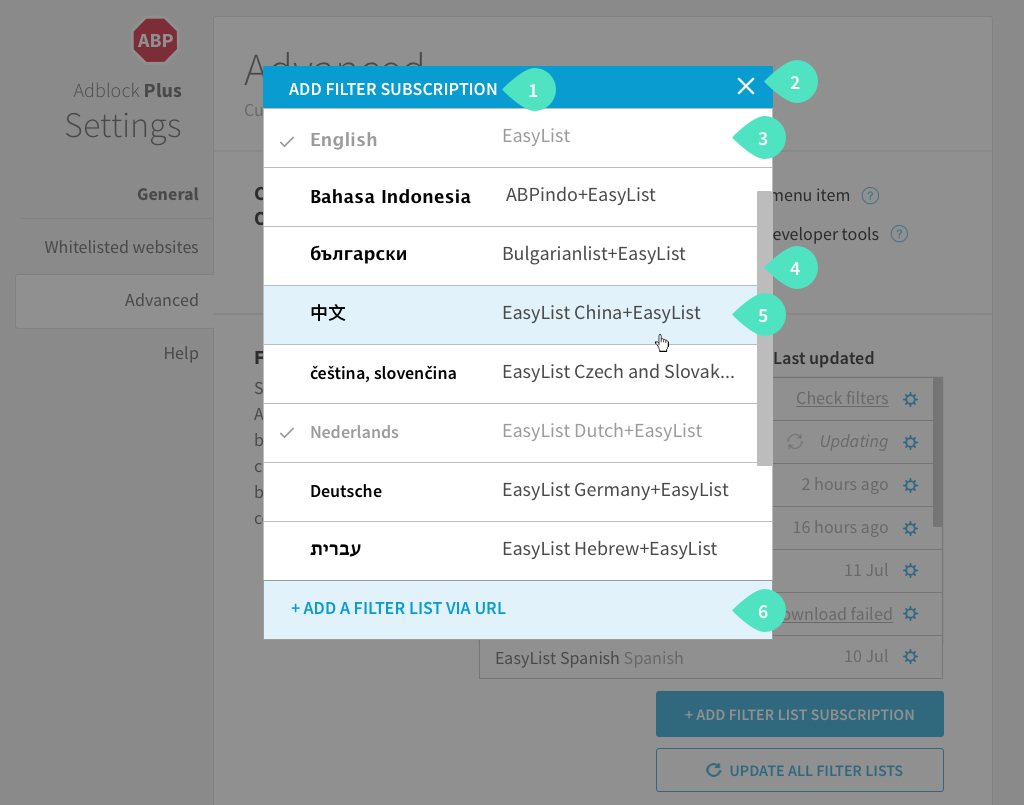
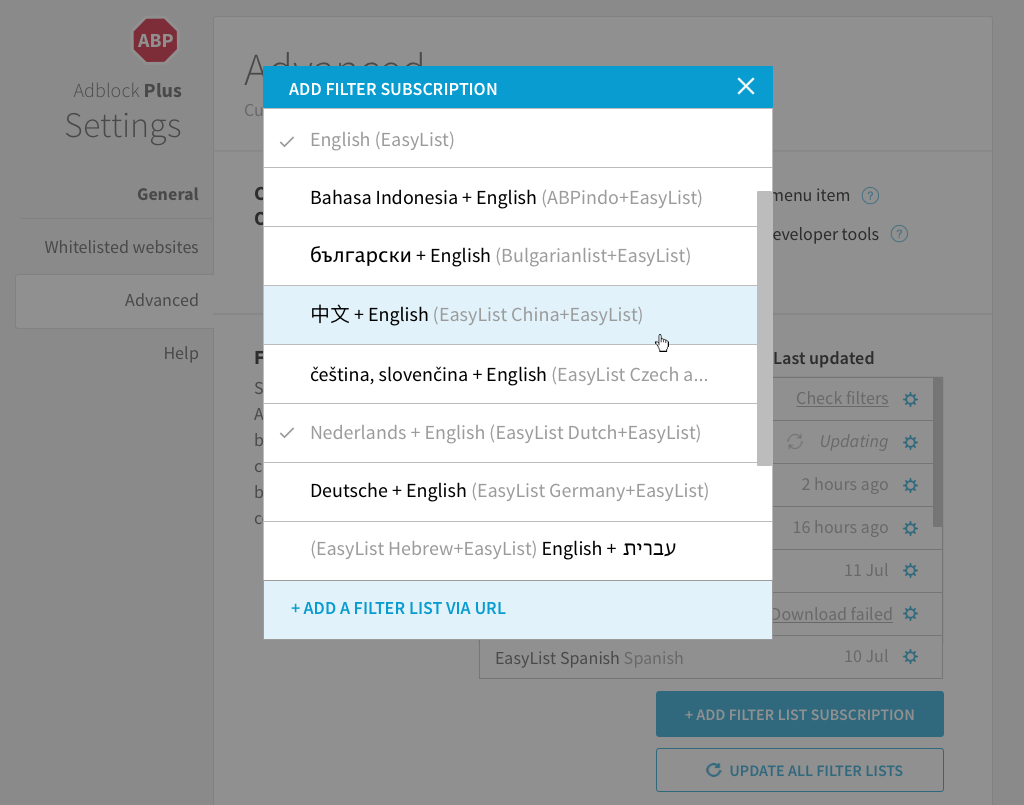
Issue #47 - updated language subscription names in the modal window and duplicated for the advanced tab

diff --git a/spec/abp/options-page.md b/spec/abp/options-page.md
@@ -247,53 +247,51 @@ TODO link to language article
 #### Change language
 
 - Labelled `CHANGE`
-- Button to trigger the [language drop-down menu](#markdown-header-language-drop-down-menu).
+- Button to trigger the [Language modal window](#markdown-header-language-modal-window).
+- Clicking on a language within the modal window will automatically close the window and *change the language filter subscription*. 
 
 #### Add language
 
 - Labelled `+ ADD A LANGUAGE` 
-- Button to trigger the [language drop-down menu](#markdown-header-language-drop-down-menu).
+- Button to trigger the [Language modal window](#markdown-header-language-modal-window).
+- Clicking on a language within the modal window will automatically close the window and *add the language filter subscription*. 
 
 #### Language tip
 
 ```**TIP:** Only select the languages you need. Selecting more will slow down the ad blocker and, therefore, your browsing speed. ```
 
-#### Adding / Changing a language
+### Language modal window
 
 ![](/res/abp/options-page/general-default-language-drop-down.jpg)
 
-1. [Language list](#markdown-header-language-list)
-1. [Dropdown header](#markdown-header-dropdown-header)
-1. [Selecting a language](#markdown-header-selecting-a-language)
+1. [Modal window title](#markdown-header-modal-window-title)
+1. [Close modal window](#markdown-header-close-modal-window)
 1. [Selected language](#markdown-header-selected-language)
+1. [Filter subscription](#markdown-header-filter-subcription)
+1. [Scroll bar](#markdown-header-scroll-bar)
 
-#### Language list
+#### Modal window title
+ - `SELECT A LANGUAGE` 
 
-- To see all available language options and corresponding filter lists go to  [Language filter lists](#markdown-header-language-filter-lists).
-
-#### Dropdown header
-
-- Labelled `Select a language` 
-
-#### Selecting a language
-
-- Hover over and click states are displayed in the same way. 
-- `CHANGE` state: Triggers language drop down. Clicking on a language will automatcically close the drop down menu and *add the language the list*. 
-- `+ ADD A LANGUAGE` state: Triggers language drop down. Clicking on a language will automatcically close the drop down menu and *change the default language*. 
+#### Close modal window
+- X closes the [Language modal window](#markdown-header-language-modal-window).
 
 #### Selected language
+- Already added filter subscriptions will appear greyed out and disabled in the modal window.   
 
-- Selected language(s) are greyed out and not interactive. 
-- When a user is  changing their default language using the [change language](#markdown-header-change-language) feature, there will be no `selected language` state.
-- If another language has already been added as a secondary language, a user will be able to select that language. This will change the language to the default language, and move it to the top of the language list.   
+#### Filter subscription
+- Show filter *Description* followed by *Subscription title*. See [Language filter lists](#markdown-header-language-filter-lists) for titles and description.
 
-#### Removing a language
+#### Scroll bar
+- The size of the layover menu should correspond to the screen size. The scroll bar should adjust accordingly. 
+
+#### Multiple languages
 
 ![](/res/abp/options-page/general-default-language-multiple.jpg)
 
-- When there is more than 1 language filter list in the table, the `CHANGE` element turns into a bin icon. All filter lists are removeable.
+- When there is more than one language filter list in the table, the  [Change language](#markdown-header-change-language) element turns into a bin icon. All filter lists are removeable.
+- When there is only one language filter list in the table, the remaining filter list is not removeable, and the user is only allowed to  [Change language](#markdown-header-change-language) the filter list - this triggers the [Language modal window](#markdown-header-language-modal-window).
 - To remove a language from the table, select the bin icon in the language row. 
-- When there is only 1 language filter list in the table, the remaining filter list is not removeable, and the user is only allowed to `CHANGE` the filter list - this triggers the language drop down.
 
 #### Language filter list - empty state
 
@@ -571,7 +569,7 @@ settings. You can also add additional filters created and maintained by our trus
 
 #### Add filter list button
 
-- Opens [Add filter list popup](#markdown-header-add-filter-list-popup).
+- Opens [Add filter list modal window](#markdown-header-add-filter-list-modal-window).
 - `+ Add a new filter list`
 
 #### Update filter lists button
@@ -615,45 +613,20 @@ Edit filter list popup
 [Additional subscriptions](/spec/abp/prefs.md#markdown-header-additional-subscriptions) cannot be removed and the [Remove filter list link](#markdown-header-remove-filter-list-link) should be disabled in this case.
 - `Remove`
 
-Add filter list popup
+Add filter list modal window
 ---------------------
-
-Popup to add a filter list from a selection.
-
 ![](/res/abp/options-page/advanced-add-filter-list-popup.jpg)
 
-1. [Add filter list popup title](#markdown-header-add-filter-list-popup-title)
-1. [Close filter list popup X](#markdown-header-close-filter-list-popup-X)
-1. [Filter subscription](#markdown-header-filter-subscription)
-1. [Scroll bar](#markdown-header-scroll-bar)
-1. [Focused filter list](#markdown-header-Focussed-filter-list)
-1. [Add filter list via URL](#markdown-header-add-filter-list-via-URL)
+#### OVERVIEW
+Modal window to add an Adblock Plus recognized filter list.
 
-### Add filter list popup title
+This will behave in the same way as the [Language modal window](#markdown-header-language-modal-window) in the [General tab](#markdown-header-general-tab) with some changes as stated below.
 
-`Add filter subscription`
+#### Title 
+`ADD A FILTER SUBSCRIPTION`
 
-### Close filter list popup X
-
-Closes the [Add filter list popup](#markdown-header-add-filter-list-popup).
-
-### Filter subscription
-
-- Show filter *Subscription title* in the first column and filter *Description* in the second column. See [Language filter lists](#markdown-header-language-filter-lists) for titles and description.
-- Already added filter subscriptions will appear disabled in the popup. 
-
-### Scroll bar
-
-The size of the layover menu should correspond to the screen size. The scroll bar should adjust accordingly. 
-
-### Focused filter list
-
-When a filter list is in focus the whole row should be highlighted.
-
-### Add filter list via URL
-
-- Closes the [Add filter list popup](#markdown-header-add-filter-list-popup) and opens the [Add custom subscription popup](#markdown-header-add-custom-subscription-popup)
-- `+ ADD FILTER LIST VIA URL`
+#### Add filter list via URL
+Clicking `+ ADD FILTER LIST VIA URL` closes the [Add filter list modal window](#markdown-header-add-filter-list-modal-window) and opens the [Add custom subscription popup](#markdown-header-add-custom-subscription-popup)
 
 ### Language filter lists
 
